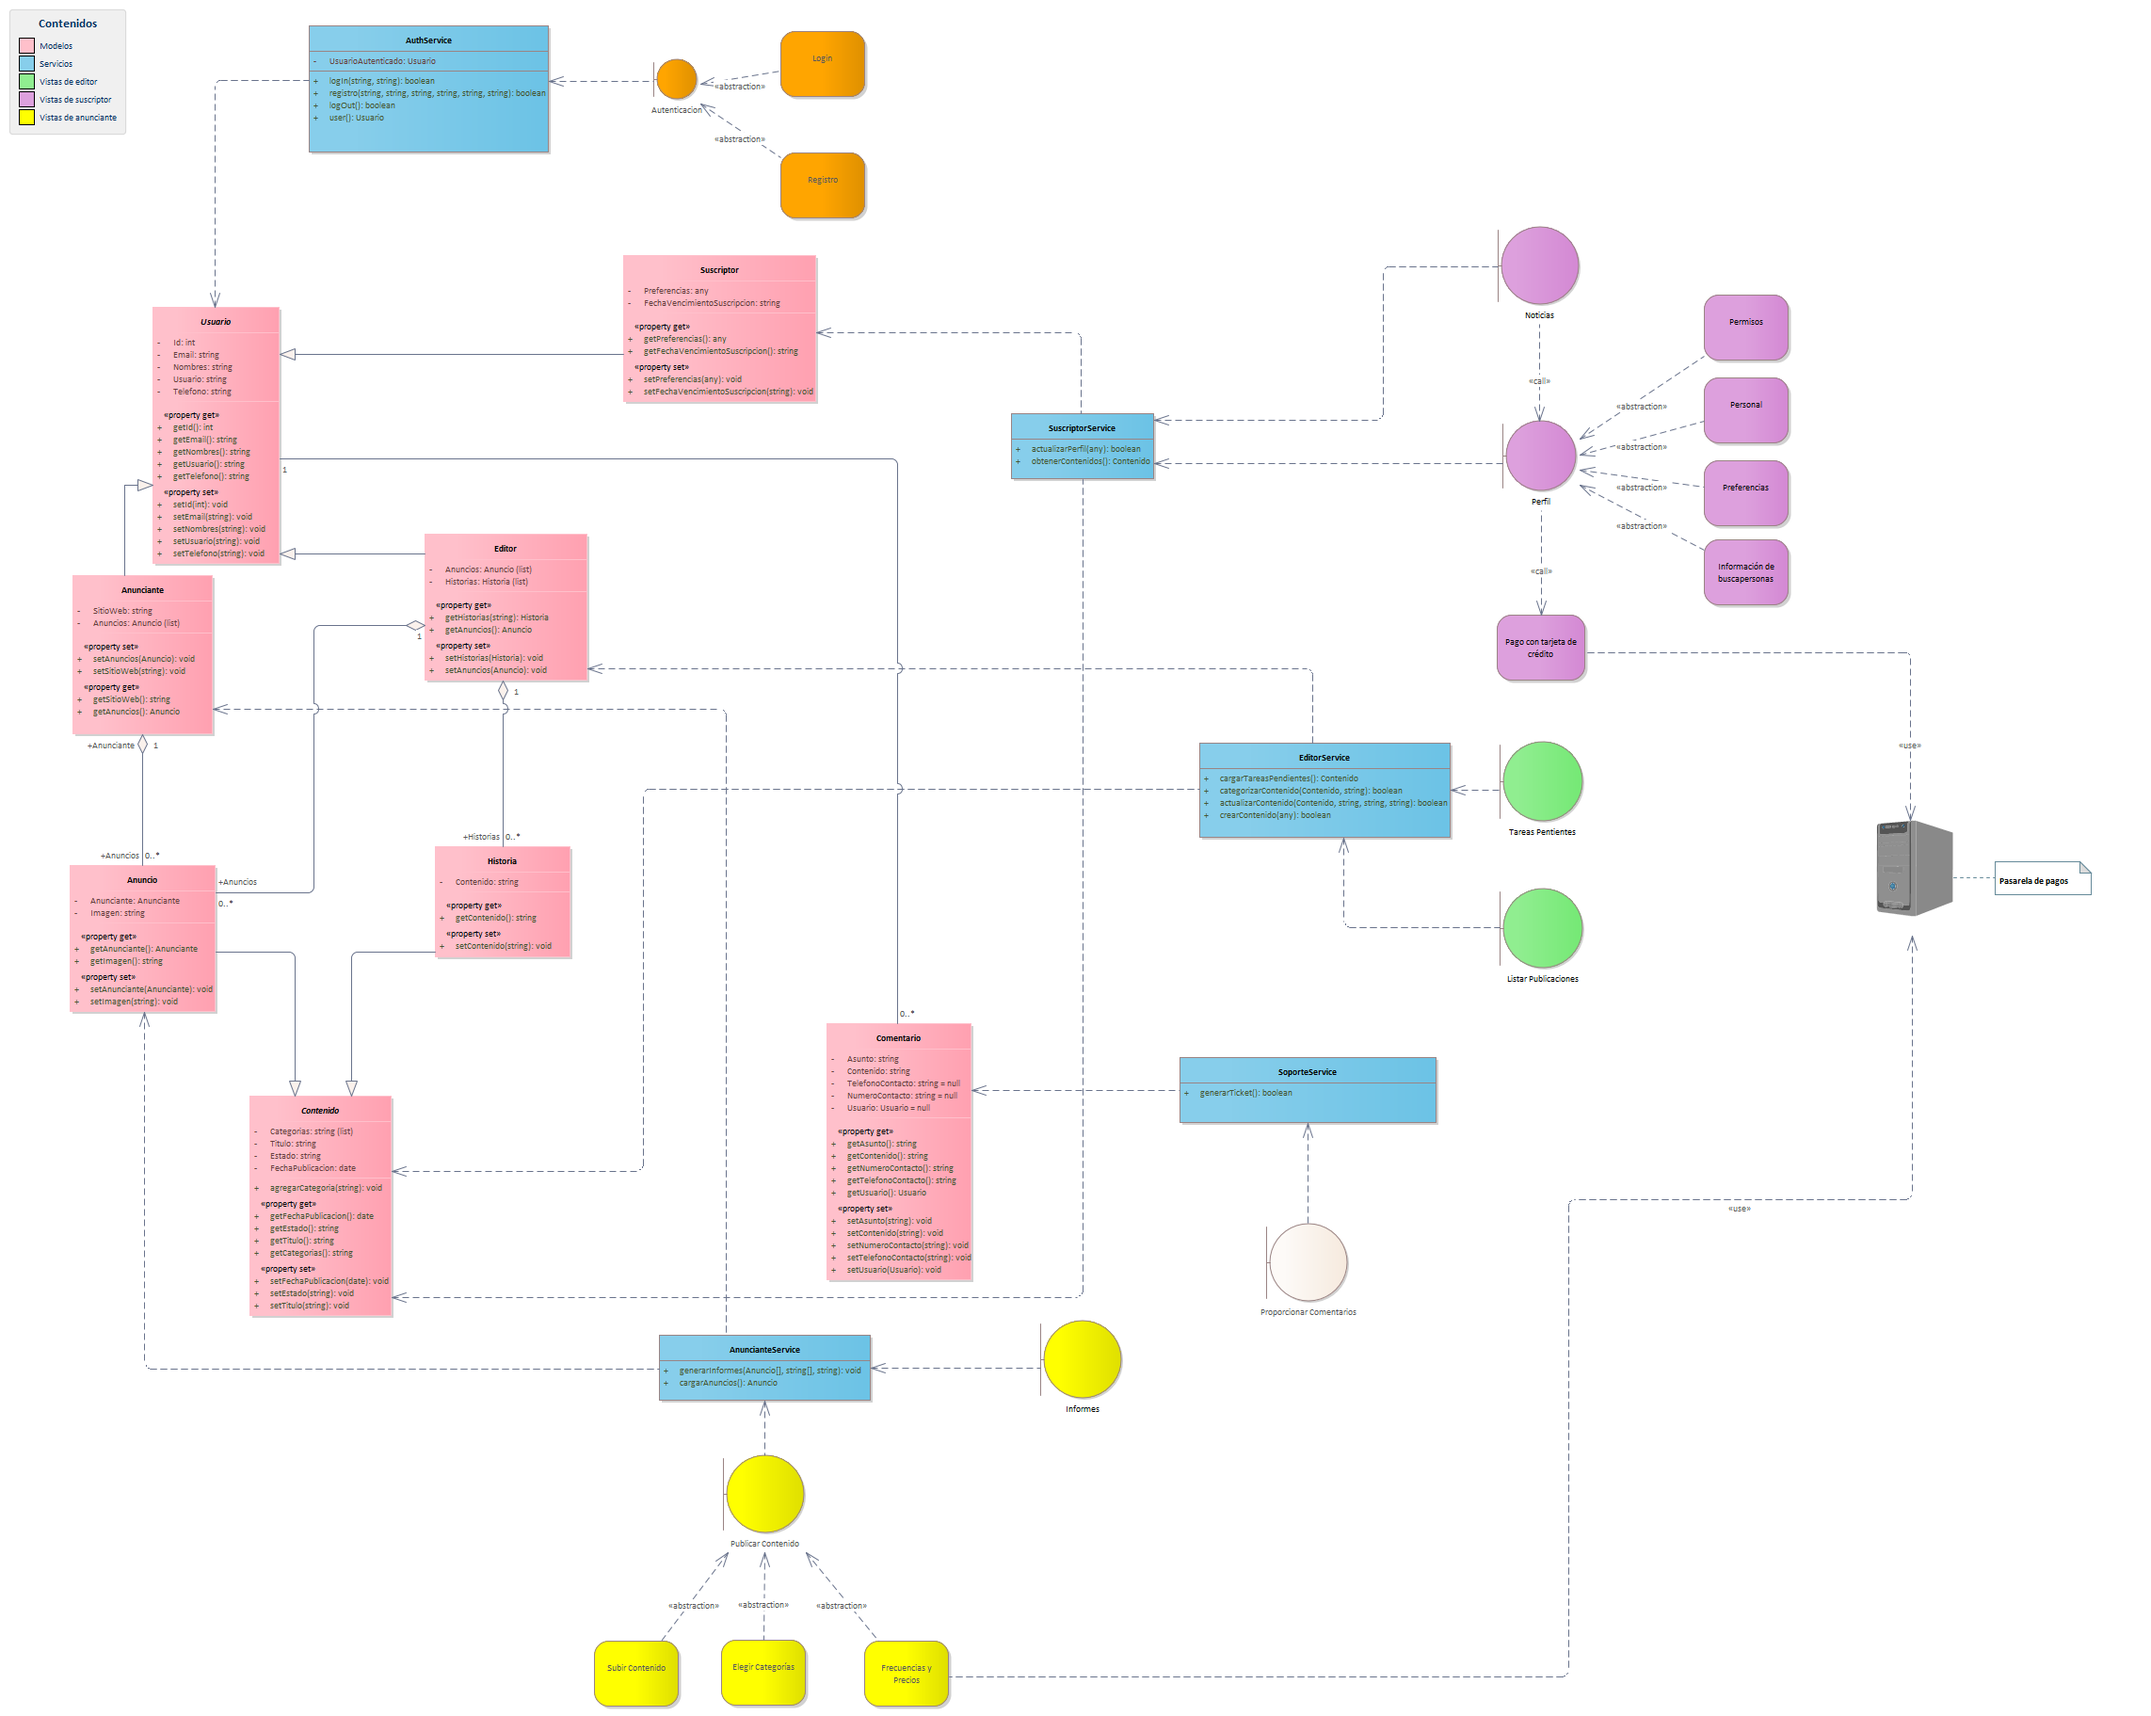
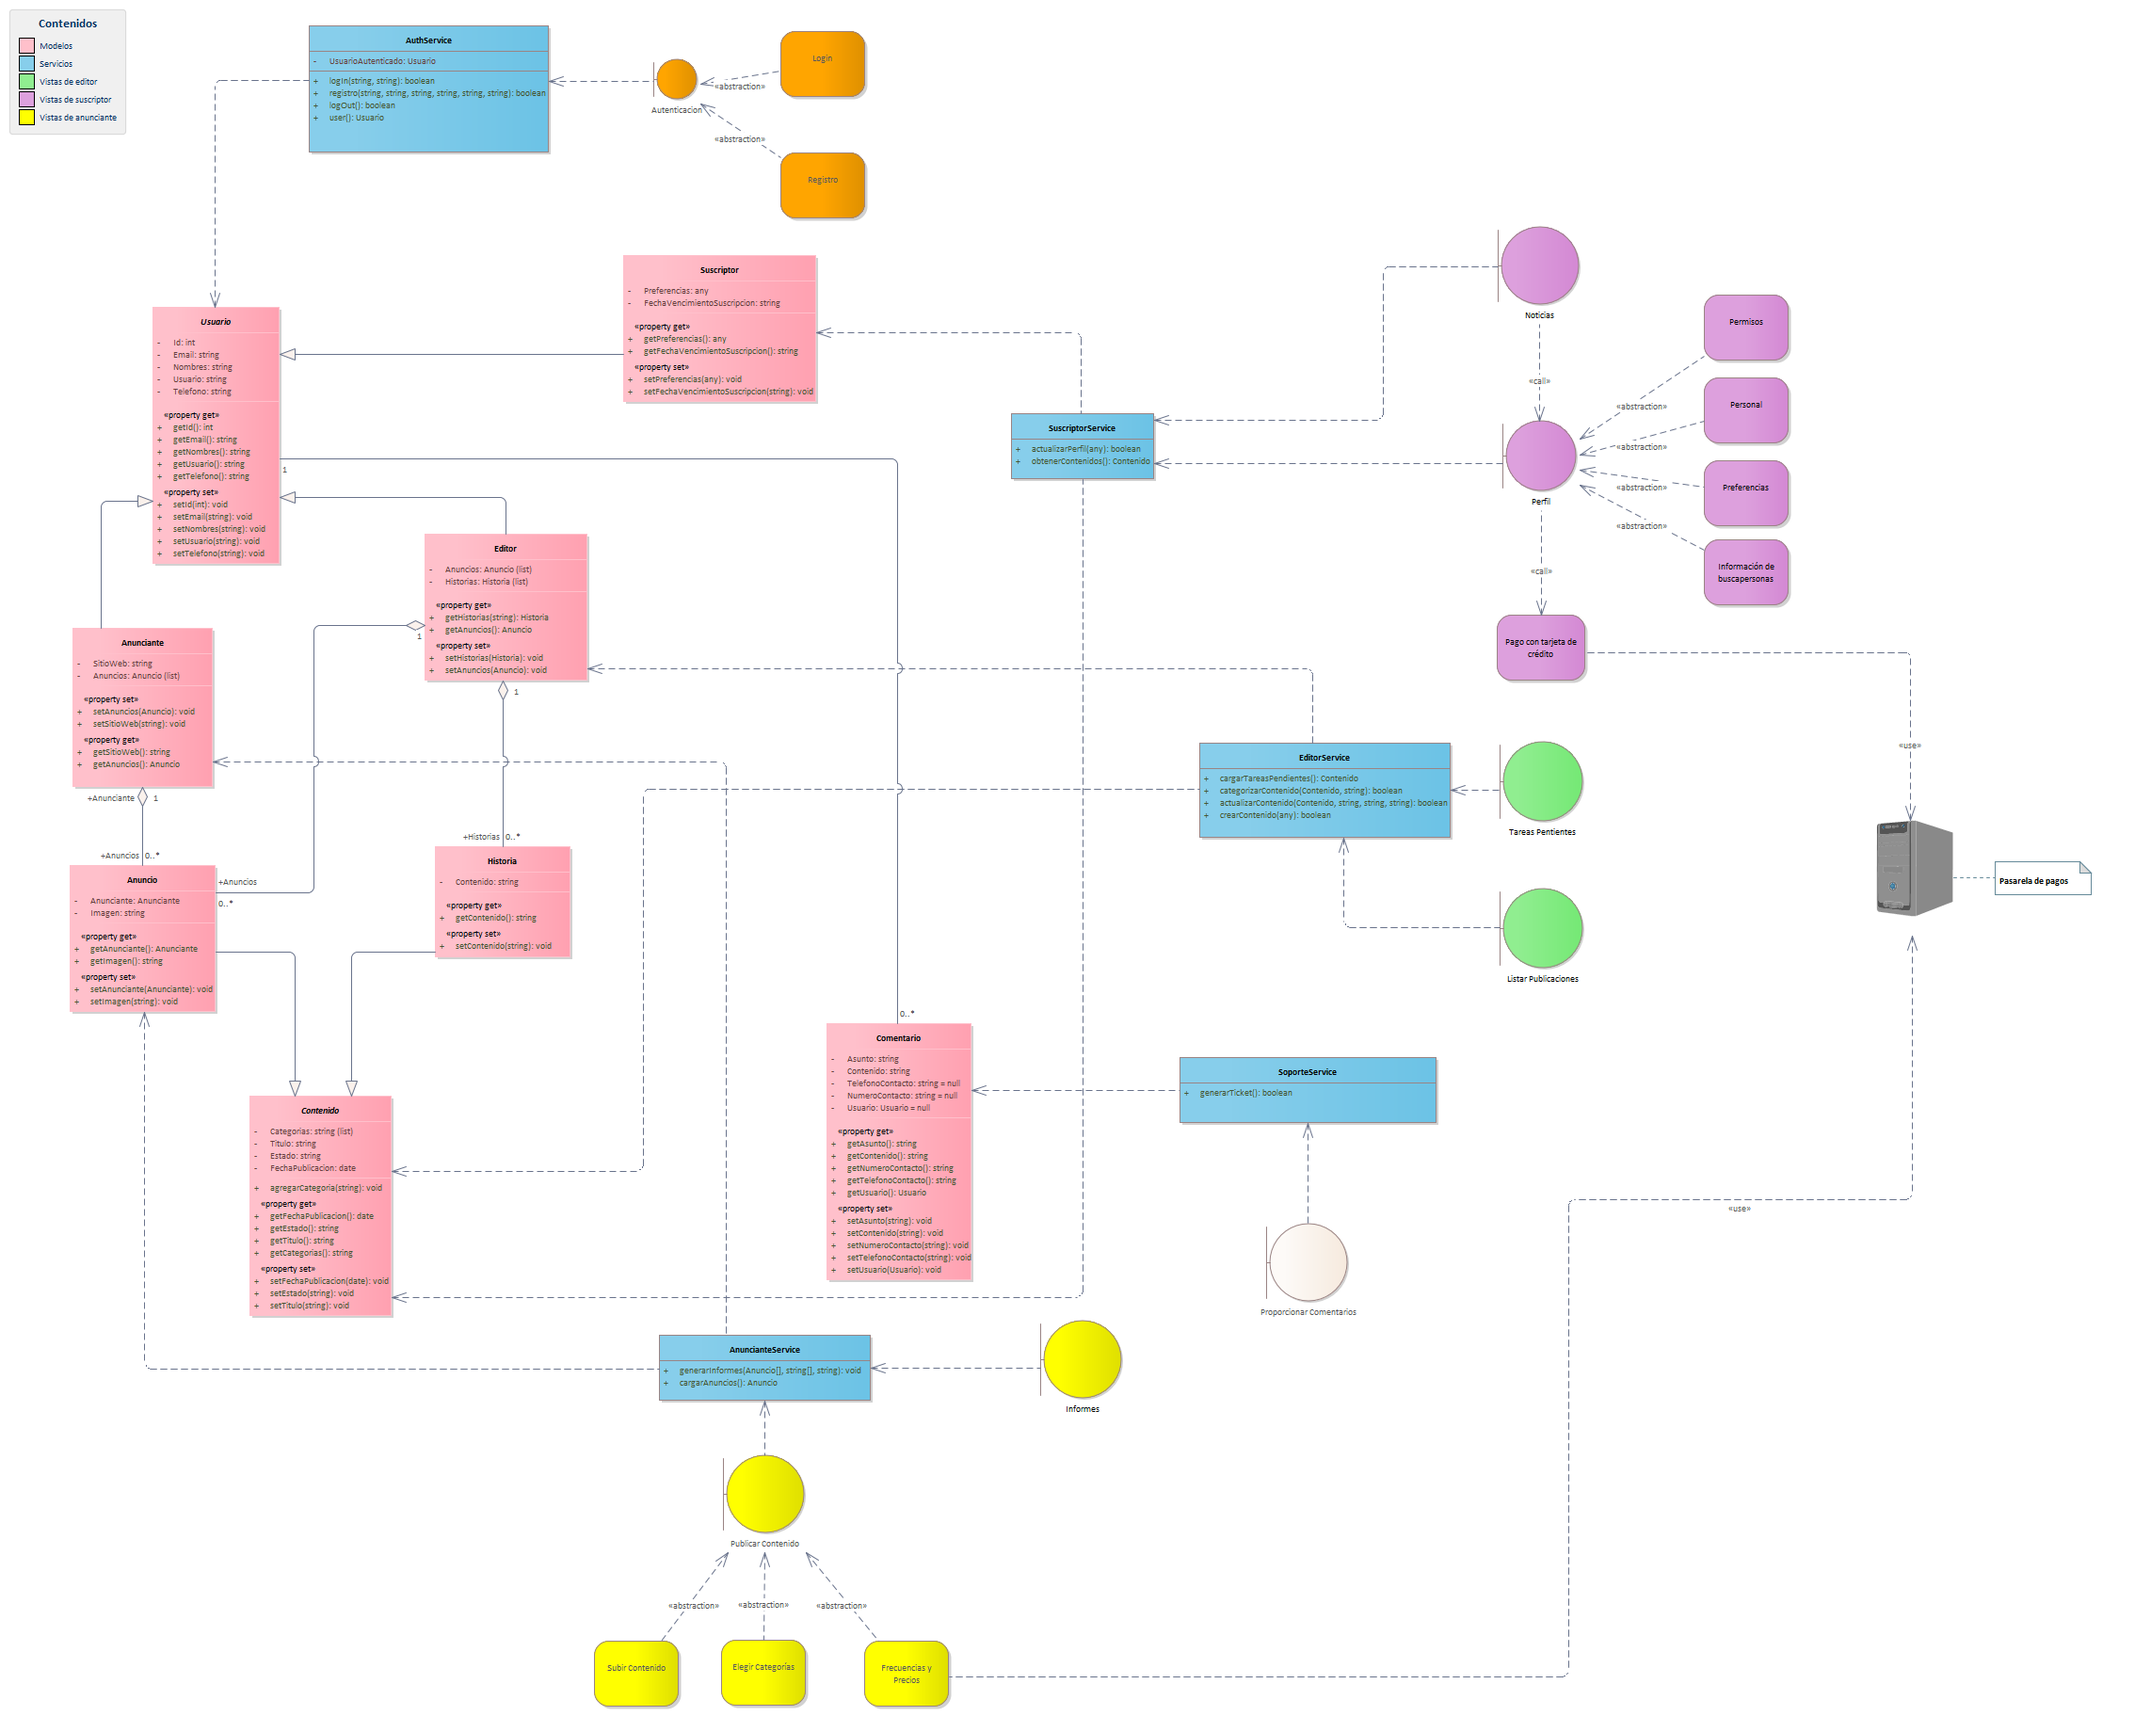
wip

Changed region(s): [[0.0311, 0.3072, 0.1243, 0.4608]]

diff --git a/EARoot/EA3/EA1/EA2/EA137.html b/EARoot/EA3/EA1/EA2/EA137.html
@@ -65,7 +65,7 @@ function nameClassifier(name, separator)
 <area shape="rect" coords="74,919,229,1075" href="./EA1/EA150.html" target="_self">
 <area shape="rect" coords="462,899,606,1017" href="./EA1/EA154.html" target="_self">
 <area shape="rect" coords="265,1164,416,1398" href="./EA1/EA152.html" target="_self">
-<area shape="rect" coords="77,611,226,780" href="./EA1/EA149.html" target="_self">
+<area shape="rect" coords="77,667,226,836" href="./EA1/EA149.html" target="_self">
 <area shape="rect" coords="662,271,867,427" href="./EA1/EA155.html" target="_self">
 <area shape="rect" coords="451,567,624,723" href="./EA1/EA153.html" target="_self">
 <area shape="rect" coords="162,326,297,599" href="./EA1/EA156.html" target="_self">
@@ -80,7 +80,7 @@ function nameClassifier(name, separator)
 		</tr>
 		<tr>
 			<td width="15%" class="ObjectDetailsTopic">Modified:</td>
-			<td width="85%" class="ObjectDetailsValue">22/03/2021 9:14:44 p. m.</td>
+			<td width="85%" class="ObjectDetailsValue">23/03/2021 11:48:58 a. m.</td>
 		</tr>
 		<tr style="padding-top: 10px;">
 			<td width="15%" class="ObjectDetailsTopic"><img src="../../../../images/plus03.gif" align="absmiddle" id="proj" onclick="parent.toggleData(this.id)" />Project:</td>

diff --git a/EARoot/EA1/EA3.html b/EARoot/EA1/EA3.html
@@ -2,7 +2,7 @@
 <html xmlns="http://www.w3.org/1999/xhtml">
 <head>
 <meta http-equiv="Content-Type" content="text/html; charset=UTF-8" />
-<title>Principal</title>
+<title>Presentación</title>
 <link href="../../css/ea.css" rel="stylesheet" type="text/css" />
 <script>
 function initPage(src) {	
@@ -34,7 +34,7 @@ function nameClassifier(name, separator)
 <div class="pageHeader"></div>
 <div class="PageBody">
 	<div id="name_classifier" style="display: none;"></div>
-	<span class="ObjectTitle"><script type="text/javascript">document.write(nameClassifier("Principal", " : "))</script>  : Public   Package</span>
+	<span class="ObjectTitle"><script type="text/javascript">document.write(nameClassifier("Presentación", " : "))</script>  : Public   Package</span>
 	<table border="0" cellpadding="0" cellspacing="0" class="ObjectDetails">
 		<tr>
 			<td width="15%" class="ObjectDetailsTopic">Created:</td>
@@ -42,7 +42,7 @@ function nameClassifier(name, separator)
 		</tr>
 		<tr>
 			<td class="ObjectDetailsTopic">Modified:</td>
-			<td class="ObjectDetailsValue">16/03/2021 8:45:27 p. m.</td>
+			<td class="ObjectDetailsValue">23/03/2021 11:47:27 a. m.</td>
 		</tr>
 		<tr style="height: 10px"><td colspan="2"></td></tr>
 		<tr>

diff --git a/EARoot/EA1/EA1.html b/EARoot/EA1/EA1.html
@@ -2,7 +2,7 @@
 <html xmlns="http://www.w3.org/1999/xhtml">
 <head>
 <meta http-equiv="Content-Type" content="text/html; charset=UTF-8" />
-<title>Principal</title>
+<title>Presentación</title>
 <link href="../../css/ea.css" rel="stylesheet" type="text/css" />
 <script>
 function initPage(src) {	
@@ -43,7 +43,7 @@ function nameClassifier(name, separator)
 <area shape="rect" coords="10,10,811,98" href="EA4.html" target="_self">
 </MAP>
 
-	<div class="ObjectTitle">Principal : CompositeStructure diagram</div>
+	<div class="ObjectTitle">Presentación : CompositeStructure diagram</div>
 	<table border="0" cellpadding="0" cellspacing="0" class="ObjectDetails">
 		<tr>
 			<td width="15%" class="ObjectDetailsTopic">Created:</td>
@@ -51,7 +51,7 @@ function nameClassifier(name, separator)
 		</tr>
 		<tr>
 			<td width="15%" class="ObjectDetailsTopic">Modified:</td>
-			<td width="85%" class="ObjectDetailsValue">18/03/2021 10:53:27 a. m.</td>
+			<td width="85%" class="ObjectDetailsValue">23/03/2021 11:47:32 a. m.</td>
 		</tr>
 		<tr style="padding-top: 10px;">
 			<td width="15%" class="ObjectDetailsTopic"><img src="../../images/plus03.gif" align="absmiddle" id="proj" onclick="parent.toggleData(this.id)" />Project:</td>

diff --git a/EARoot/EA1/EA6.html b/EARoot/EA1/EA6.html
@@ -91,7 +91,7 @@ function nameClassifier(name, separator)
 		</tr>
 		<tr id="adv01" style="display: none;">
 			<td class="ObjectDetailsTopic" style="padding-left: 18px;">Appears In:</td>
-			<td class="ObjectDetailsValue"><a href="EA1.html">Principal</a></td>
+			<td class="ObjectDetailsValue"><a href="EA1.html">Presentación</a></td>
 		</tr>
 	</table>
 	<div class="ObjectDetailsNotes">A continuaci&#243;n se anexan las vistas arquitectonicas de escenarios con diagramas de casos de uso y l&#243;gica con diagramas de clases.&lt;br/&gt;</div>

diff --git a/EARoot/EA1/EA5.html b/EARoot/EA1/EA5.html
@@ -91,7 +91,7 @@ function nameClassifier(name, separator)
 		</tr>
 		<tr id="adv01" style="display: none;">
 			<td class="ObjectDetailsTopic" style="padding-left: 18px;">Appears In:</td>
-			<td class="ObjectDetailsValue"><a href="EA1.html">Principal</a></td>
+			<td class="ObjectDetailsValue"><a href="EA1.html">Presentación</a></td>
 		</tr>
 	</table>
 	<div class="ObjectDetailsNotes">Karen Posada&lt;br/&gt;Eider Trivi&#241;o&lt;br/&gt;Maria Paula Loaiza&lt;br/&gt;Andres Grajales&lt;br/&gt;Jhon Edison Giraldo&lt;br/&gt;</div>

diff --git a/EARoot/EA1/EA4.html b/EARoot/EA1/EA4.html
@@ -91,7 +91,7 @@ function nameClassifier(name, separator)
 		</tr>
 		<tr id="adv01" style="display: none;">
 			<td class="ObjectDetailsTopic" style="padding-left: 18px;">Appears In:</td>
-			<td class="ObjectDetailsValue"><a href="EA1.html">Principal</a></td>
+			<td class="ObjectDetailsValue"><a href="EA1.html">Presentación</a></td>
 		</tr>
 	</table>
 	<div class="ObjectDetailsNotes">&lt;b&gt;Taller 2: Diagramas de clases&lt;/b&gt;&lt;br/&gt;</div>

diff --git a/EARoot/EA1/EA7.html b/EARoot/EA1/EA7.html
@@ -91,7 +91,7 @@ function nameClassifier(name, separator)
 		</tr>
 		<tr id="adv01" style="display: none;">
 			<td class="ObjectDetailsTopic" style="padding-left: 18px;">Appears In:</td>
-			<td class="ObjectDetailsValue"><a href="EA1.html">Principal</a></td>
+			<td class="ObjectDetailsValue"><a href="EA1.html">Presentación</a></td>
 		</tr>
 	</table>
 	

diff --git a/EARoot/EA1/EA8.html b/EARoot/EA1/EA8.html
@@ -91,7 +91,7 @@ function nameClassifier(name, separator)
 		</tr>
 		<tr id="adv01" style="display: none;">
 			<td class="ObjectDetailsTopic" style="padding-left: 18px;">Appears In:</td>
-			<td class="ObjectDetailsValue"><a href="EA1.html">Principal</a></td>
+			<td class="ObjectDetailsValue"><a href="EA1.html">Presentación</a></td>
 		</tr>
 	</table>
 	

diff --git a/EARoot/EA3/EA1/EA2/EA3/EA173.html b/EARoot/EA3/EA1/EA2/EA3/EA173.html
@@ -2,7 +2,7 @@
 <html xmlns="http://www.w3.org/1999/xhtml">
 <head>
 <meta http-equiv="Content-Type" content="text/html; charset=UTF-8" />
-<title>Información de buscapersonas</title>
+<title>Vistas::Información de buscapersonas</title>
 <link href="../../../../../css/ea.css" rel="stylesheet" type="text/css" />
 <script>
 function initPage(src) {	

diff --git a/EARoot/EA3/EA1/EA2/EA3/EA178.html b/EARoot/EA3/EA1/EA2/EA3/EA178.html
@@ -2,7 +2,7 @@
 <html xmlns="http://www.w3.org/1999/xhtml">
 <head>
 <meta http-equiv="Content-Type" content="text/html; charset=UTF-8" />
-<title>Pago con tarjeta de crédito</title>
+<title>Vistas::Pago con tarjeta de crédito</title>
 <link href="../../../../../css/ea.css" rel="stylesheet" type="text/css" />
 <script>
 function initPage(src) {	

diff --git a/EARoot/EA3/EA1/EA1/EA2/EA107.html b/EARoot/EA3/EA1/EA1/EA2/EA107.html
@@ -2,7 +2,7 @@
 <html xmlns="http://www.w3.org/1999/xhtml">
 <head>
 <meta http-equiv="Content-Type" content="text/html; charset=UTF-8" />
-<title>Categoria_contenido_pivote</title>
+<title>Modelos::Categoria_contenido_pivote</title>
 <link href="../../../../../css/ea.css" rel="stylesheet" type="text/css" />
 <script>
 function initPage(src) {	

diff --git a/EARoot/EA3/EA1/EA2/EA3/EA183.html b/EARoot/EA3/EA1/EA2/EA3/EA183.html
@@ -2,7 +2,7 @@
 <html xmlns="http://www.w3.org/1999/xhtml">
 <head>
 <meta http-equiv="Content-Type" content="text/html; charset=UTF-8" />
-<title>Proporcionar Comentarios</title>
+<title>Vistas::Proporcionar Comentarios</title>
 <link href="../../../../../css/ea.css" rel="stylesheet" type="text/css" />
 <script>
 function initPage(src) {	
